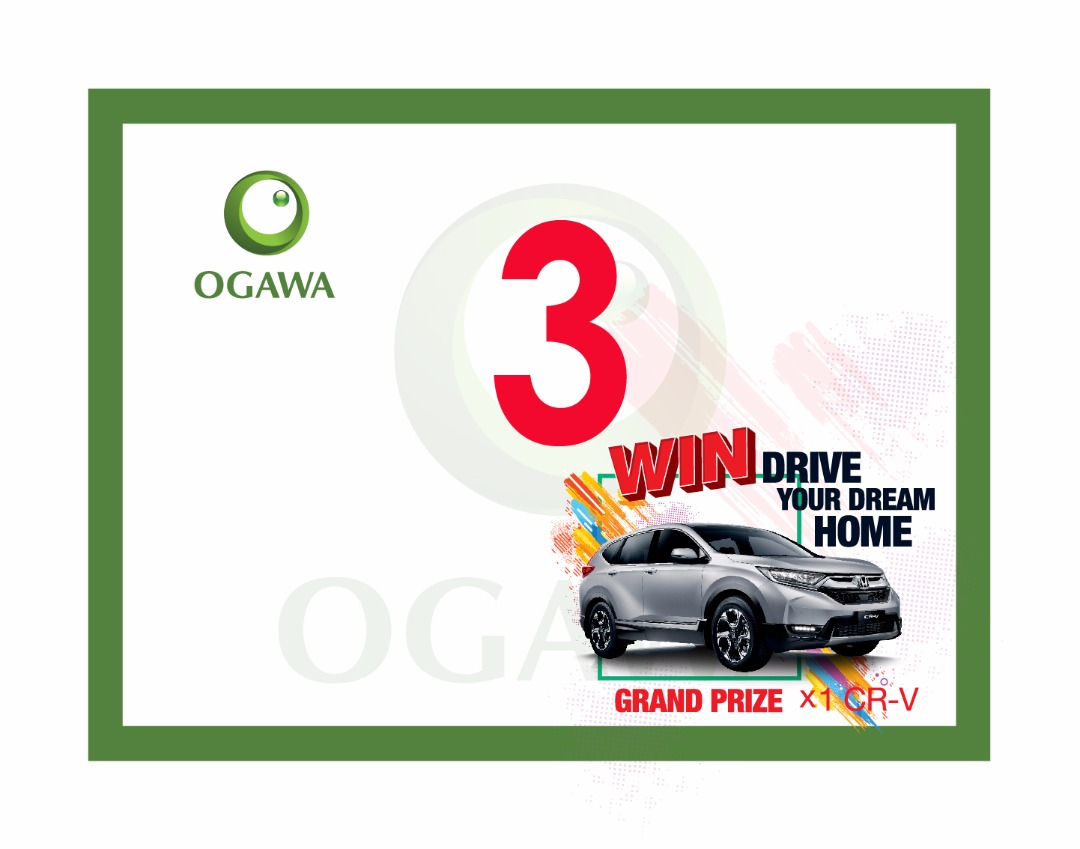
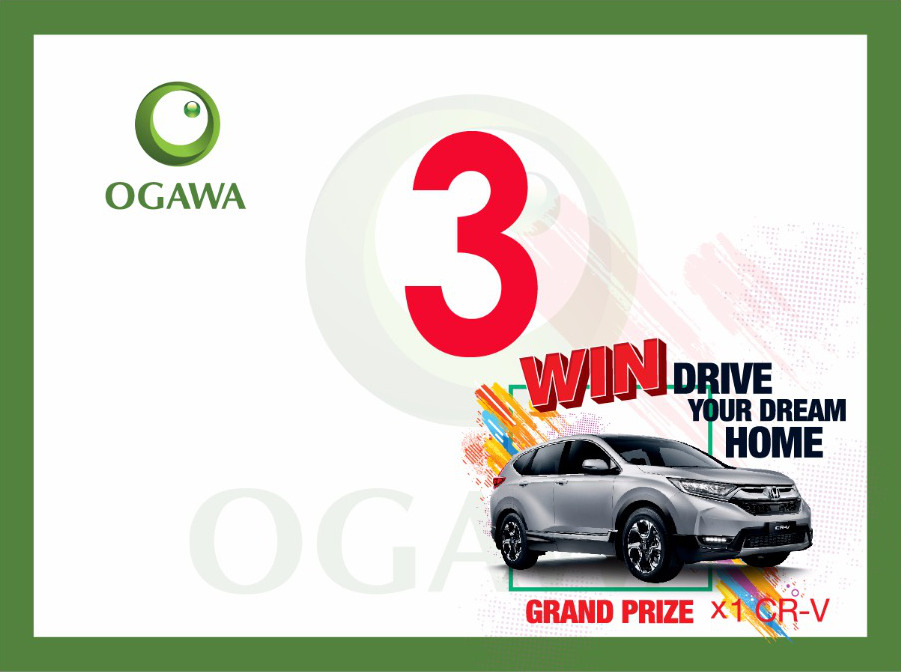
adjust printout size

diff --git a/app/assets/stylesheets/print.scss b/app/assets/stylesheets/print.scss
@@ -5,35 +5,46 @@
         print-color-adjust: exact;
     }
 
+    @page {
+        size: 4in 3in;
+    }
+
+
+
     img {
-        max-width: 100% !important;
+        width: 100% !important;
+        height: 100% !important;
     }
 
     .container {
         position: relative;
         text-align: center;
     }
+
+    .top-right {
+        position: absolute;
+        top: 8%;
+        right: 12%;
+        font-size: 10rem !important;
+        color: black;
+    }
     
     .bottom-left {
         position: absolute;
-        bottom: 15%;
-        left: 10%;
-        font-family: arial;
+        bottom: 11%;
+        left: 6%;
+    }
+
+    .bottom-left .p {
+        font-size: 5rem !important;
         color: black;
     }
+    
     
     .top-left {
         position: absolute;
         top: 12%;
         left: 24%;
-    }
-    
-    .top-right {
-        position: absolute;
-        top: 12%;
-        right: 16%;
-        font-family: arial;
-        color: black;
     }
     
     .bottom-right {

diff --git a/app/assets/stylesheets/application.scss b/app/assets/stylesheets/application.scss
@@ -37,8 +37,8 @@
 
 .bottom-left {
     position: absolute;
-    bottom: 15%;
-    left: 10%;
+    bottom: 11%;
+    left: 6%;
     font-family: arial;
     color: black;
 }
@@ -51,8 +51,8 @@
 
 .top-right {
     position: absolute;
-    top: 12%;
-    right: 16%;
+    top: 8%;
+    right: 12%;
     font-family: arial;
     color: black;
 }
